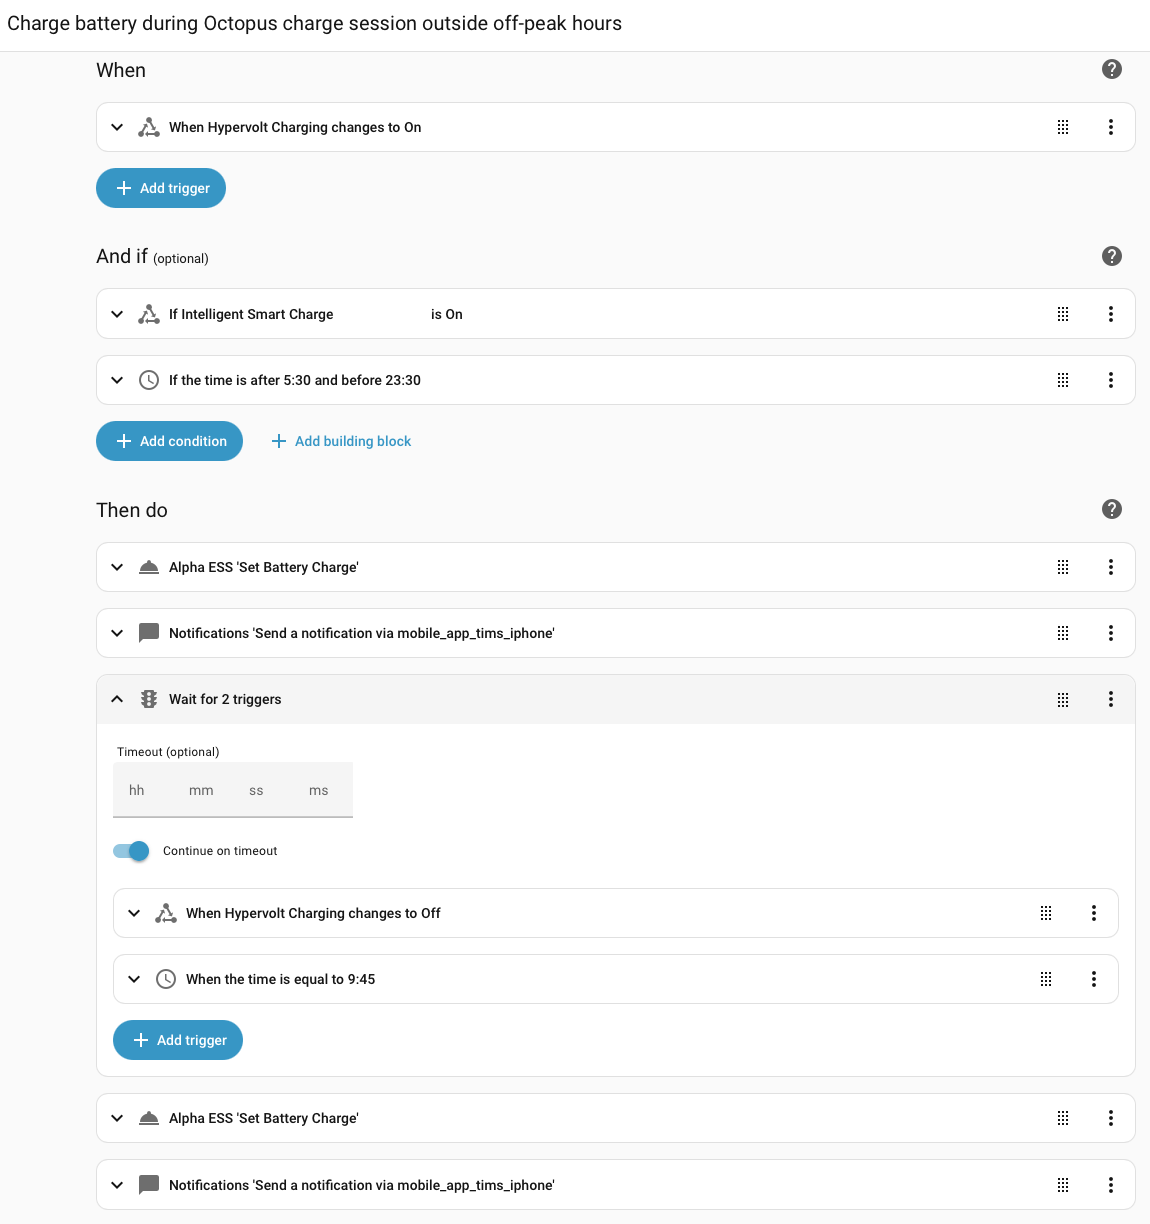
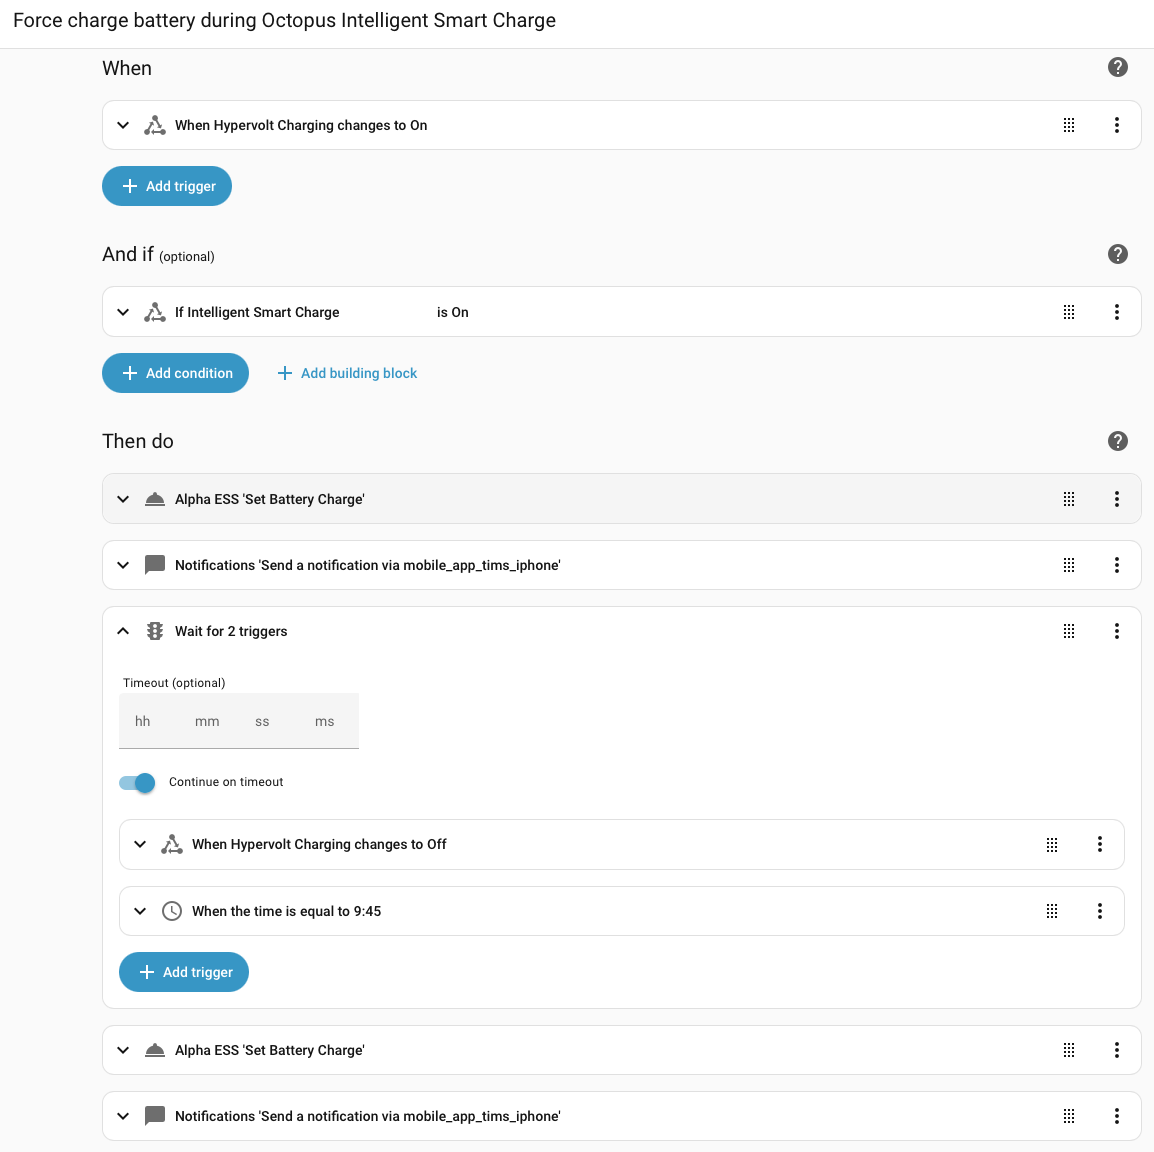
wip draft

diff --git a/_drafts/home-assistant-helpers-template-solar-forecasts.md b/_drafts/home-assistant-helpers-template-solar-forecasts.md
@@ -1,0 +1,82 @@
+---
+title: >
+  Home Assistant: Helpers, Templates and Solar Forecasts
+tags: gear
+---
+
+wise words
+
+# Helpers
+
+* Helpers are entities that you create that aren't tied to any underlying device. Like any other entity, you can read and write their current state values, put them on dashboards and use changes in their state values to trigger automations. 
+* The documentation covers each individual entity that can be used as a helper but doesn't have an overview page for the overall concept. Confusingly, there is a [Tools and Helpers](https://www.home-assistant.io/docs/tools/) section that talks about something else.
+* You can use helpers to provide high level controls and visible state for complex integrations and automations. A helper is the standard way of implementing a global variable shared by multiple automations. 
+* I'm going to use a helper to replace the hardcoded target battery state of charge in my Octopus Smart Charging - Alpha ESS Battery automation
+* Best way to see a list of available helpers is to use the Home Assistant UI to try and create one in "Settings -> Devices and Services -> Helpers"
+* I created a number helper for a target state of charge between 20% and 100%. Creating a helper will add it to the overview dashboard.
+
+{% include candid-image.html src="/assets/images/home-assistant/battery-soc-helper.png" alt="Battery Target SOC helper" %}
+
+# Templates
+
+{% raw %}
+
+* You need to use Home Assistant's [templating](https://www.home-assistant.io/docs/configuration/templating/) feature to read the value of a helper and pass it to an automation action. Templating is a generic way of transforming data from one form into another. Home Assistant uses the [Jinja2](https://palletsprojects.com/p/jinja) templating engine with some extensions. 
+* Behind the scenes all configuration, including automations, is stored in [YAML]() files
+* The files are run through the template engine before use
+* The template engine looks for template expressions (`{{ ... }}`) and template commands (`{% ... %}`) embedded in the file, evaluates them and replaces them with the output.
+* For this simple case we need a template expression that reads the state of our helper entity and outputs the result. 
+* The magic expression is `{{ states('input_number.alpha_ess_target_soc') }}`
+* The [states](https://www.home-assistant.io/docs/configuration/templating/#states) function is a Home Assistant extension that reads the state of an entity identified by its id.
+* I can now update my "Force charge battery" automation and replace the hardcoded SOC value with the value stored in the helper. Unfortunately, you can't paste template expressions straight into Home Assistant's visual editor.
+
+{% endraw %}
+
+{% include candid-image.html src="/assets/images/home-assistant/charge_cutoff_paste_template.png" alt="Pasting a template directly into the visual editor results in an error" %}
+
+* The editor uses controls optimized for the type of value used by each entity. In this case it's an integer percentage between 0 and 100. In most cases you'll get an error if you try.
+* You need to flip the editor into YAML mode to insert the template. You can enable YAML mode just for the section that you need to edit.
+
+{% include candid-image.html src="/assets/images/home-assistant/charge_cutoff_yaml_template.png" alt="Pasting a template into the YAML representation" %}
+
+* There's one gotcha. In YAML, strings have double quotes around them but numbers and booleans don't. However, when replacing the number in `chargestopsoc: 100` with the template expression, you have to add double quotes.
+* If you don't like YAML, you can now flip back to visual editor mode. The visual editor parses the YAML and this time gives you a string editing control.
+
+{% include candid-image.html src="/assets/images/home-assistant/charge_cutoff_visual_template.png" alt="Flipping back to visual editor mode" %}
+
+# Custom Dashboard
+
+* Added custom dashboard
+* Didn't appear, clicking open took me to "Overview" dashboard
+* Had to manually visit URL. Suspect browser refresh might have done the trick too.
+* Added my helper and a few other useful battery related values.
+
+{% include candid-image.html src="/assets/images/home-assistant/alpha-ess-custom-dashboard.png" alt="Alpha ESS Custom Dashboard" %}
+
+# Solar Forecast
+
+Before Home Assistant, I would occasionally change the target SOC to optimize performance of the battery. If the battery was frequently reaching 100% charge during the day due to solar generation, I would lower the target for overnight charging. If the battery frequently ran out of juice in the evenings, I would increase the target. 
+
+When I setup the built-in energy dashboard, I noticed that Home Assistant had added a [solar generation forecast service](https://www.home-assistant.io/integrations/forecast_solar/). This uses information about your solar setup together with historical data and the weather forecast to predict the next days solar generation. 
+
+Rather than fiddling with the target SOC by hand, I can improve and automate the process. The solar forecast gives me a prediction in KWh. I need to convert that into a target SOC percentage. My battery has a 10KWh capacity. On most days the house load (excluding EV charging) is in the 5KWh - 7KWh range. If there's no solar generation at all, charging the battery to 90% should leave me with at least 20% left at the end of the day. All I have to do is knock the forecast generation off that target.
+
+{% raw %}
+
+The template expression is only a little more complex.
+
+```jinja
+{{ max(min(int((9 - float(states('sensor.energy_production_tomorrow'))) * 10), 90), 20) }}
+```
+
+One gotcha is that you need to explicitly convert entity states to `float` or `int` types if you want to use math expressions. To be safe, I also clamp the calculated target value to be between 20% and 90%. 
+
+{% endraw %}
+
+# Automation Exclusion
+
+* All that's left is to create an automation that sets the target SOC each day. Once again, I have the problem that the Alpha ESS "Set Battery Charge" action updates multiple values at once. I have to provide start and end charging times as well as the target SOC.
+
+What happens if the forecast update automation runs at the same time as my Smart Charging automation? What times should I set? Even if I check whether the car is charging, is it possible that the end of charge actions run before my action, leaving the wrong charging times set? What guarantees does Home Assistant provide if automations overlap?
+
+For now, I've taken the easy way out. I run the forecast update automation at 2pm, when smart charging is highly unlikely to be taking place.

diff --git a/_drafts/home-assistant.md b/_drafts/home-assistant.md
@@ -171,15 +171,13 @@ Once it's calmed down to a gentle throb it's ready for you to connect. Here's mi
 * Events can be caused by entity state changing or by built-in events provided by Home Assistant and integrations
 * [Conditions](https://www.home-assistant.io/docs/automation/condition/) are additional criteria that need to be satisfied for the automation to run.
 * Common conditions could be based on time of day, position of the sun, states of other entities
-* My conditions are that current time is outside of off-peak hours, Octopus control is enabled or the charger is in boost mode (full power)
+* My condition is that Octopus smart control is enabled.
 * [Actions](https://www.home-assistant.io/docs/automation/action/) do something. Each entity have a set (possibly empty) of actions that it supports. There are also a variety of built-in Home Assistant actions, such as sending a notification to the HA app.
 * My Alpha ESS battery integration supports two actions that change the charging and discharging settings respectively
 * I want to override the standard settings when the charger turns on and reset them when the charger turns off
 * My battery is configured to charge during Octopus off-peak hours between 23:30 and 5:30
 * During this period the battery won't discharge
 * Charging sessions outside off-peak are charged at off-peak rates. I may as well charge the battery (if needed) while also preventing discharge.
-* The simplest way of forcing the battery into charge mode outside off-peak hours is to swap the start and end time. Then swap them back when the charger turns off.
-* Unfortunately you have to change multiple settings in one go (which mirrors how the Alpha API works)
 
 {% include candid-image.html src="/assets/images/home-assistant/battery-discharge-action.png" alt="Alpha ESS Battery Discharge Action" %}
 
@@ -190,8 +188,13 @@ Once it's calmed down to a gentle throb it's ready for you to connect. Here's mi
 
 * In theory I can use Home Assistant [templating](https://www.home-assistant.io/docs/configuration/templating/) to retrieve those values and extract the pieces I need. In practice that's too much effort for my first attempt at automation. 
 * For now I'm going to hard code the values to those I currently use. I'll figure out a better approach later.
+* There's no simple control to force the battery into charge mode. The solution I use is to set the charge period to the widest possible range. In my case, from 13.15 today through to 13.00 tomorrow. Alpha ESS requires start and ends times to be multiples of 15 minutes and can't be equal. That leaves a 15 minute range exposed. Smart charging typically happens between 19.00 and 08.00, so I put the 15 minute period as far away as possible. 
+* Unfortunately you have to change multiple settings in one go (which mirrors how the Alpha API works)
 
 {% include candid-image.html src="/assets/images/home-assistant/charger-automation.png" alt="Octopus Peak Hours Charging Automation" %}
 
-* The automation triggers when the charger turns on if smart charging is enabled and we're outside off-peak hours. If the conditions are met, five actions are executed one after the other. First, the charging settings are changed to enable battery charging and a notification is sent to my phone.
-* The magic is in the [wait for triggers](https://www.home-assistant.io/docs/scripts/#wait-for-a-trigger) action. We wait until the charger turns off or we reach the start of the off-peak period, whichever happens first. Then we reset the charging period to the normal off-peak hours and send another notification that it's all over.
+* The automation triggers when the charger turns on if smart charging is enabled. If the conditions are met, five actions are executed one after the other. First, the charging settings are changed to enable battery charging and a notification is sent to my phone.
+* The magic is in the [wait for triggers](https://www.home-assistant.io/docs/scripts/#wait-for-a-trigger) action. We wait until the charger turns off or we reach a time when charging should definitely be over, whichever happens first. Then we reset the charging period to the normal off-peak hours and send another notification that it's all over.
+* I don't have any intuition for how reliable Home Assistant events are, so felt that it was worth putting in the fail safe to stop the automation. 
+* I tried a few different approaches first but abandoned them as too complicated. The first idea was to use the charging schedule that Octopus makes available via it's API. The problem is that the schedule changes frequently and the off-peak rates only apply outside off-peak hours if your car manages to charge. It was simpler and more reliable to trigger the integration on the car starting to charge.
+* I originally setup the automation so that it would only apply for charging sessions outside off-peak hours. The problem is that charging sessions don't fall neatly into peak and off-peak. You can have a session that starts outside off-peak and finishes inside, or starts during off-peak and finishes outside, or starts outside, runs right through the off-peak hours and finishes outside. There were too many special cases to deal with. In the end it was simplest to treat all smart charging sessions the same way.
